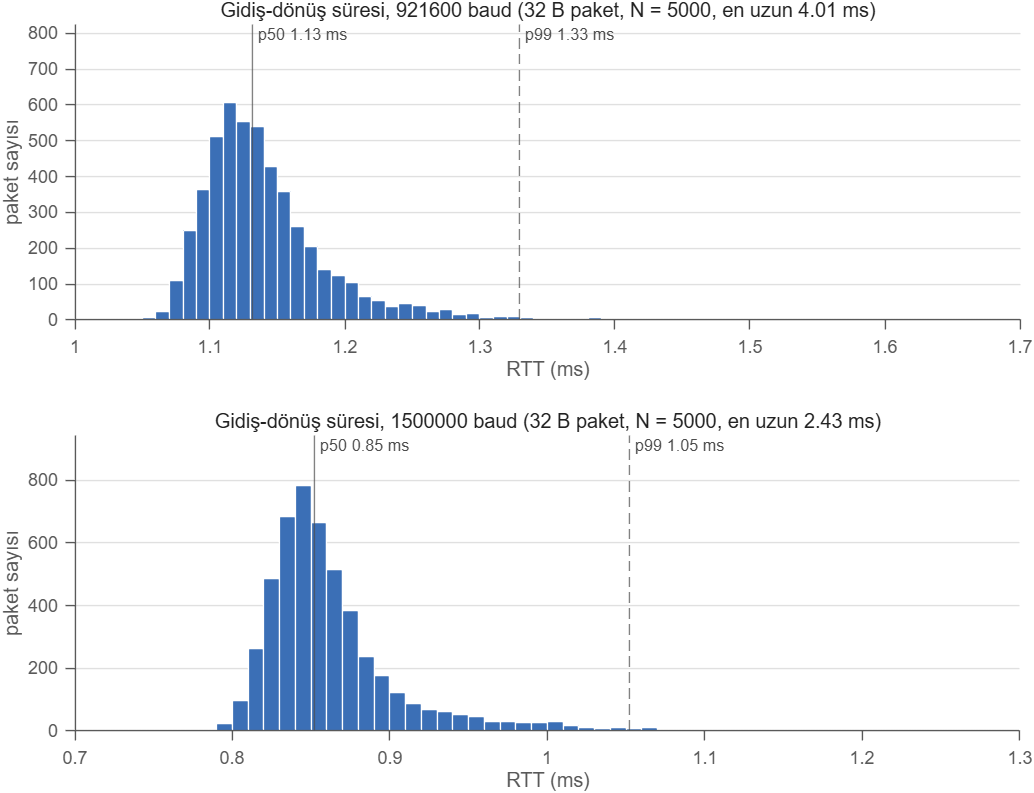
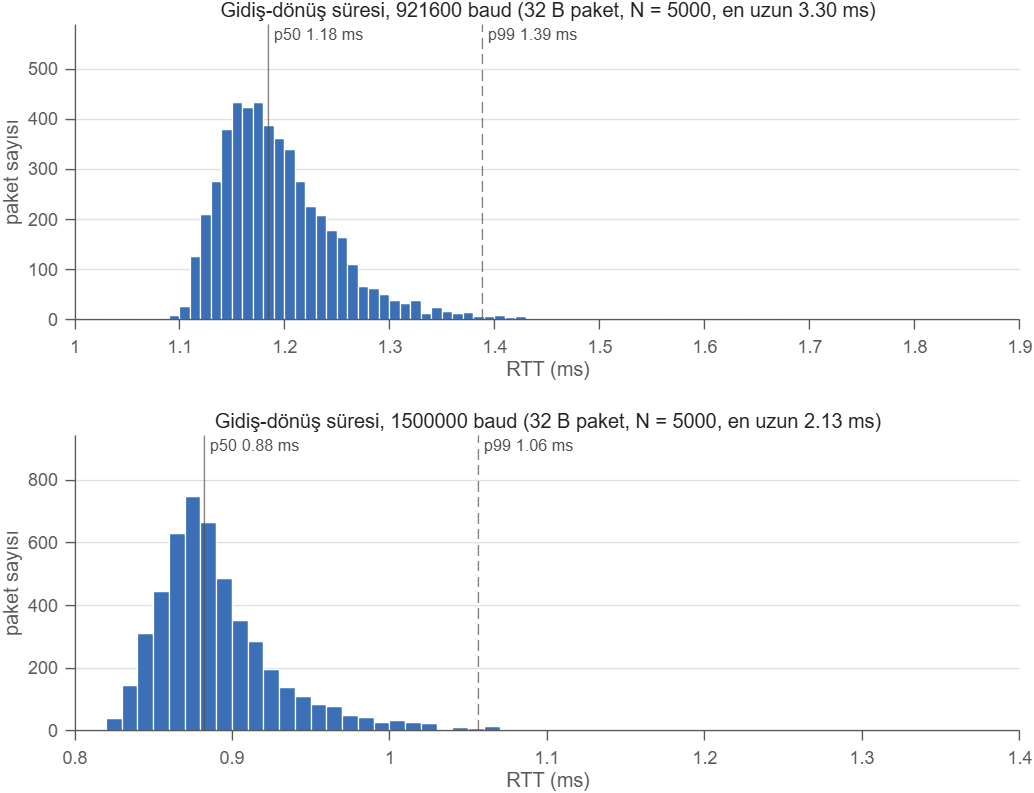
MATLAB step 3: loop timing measurement (period jitter <=10 us, wake latency 8.5-17 us, 0 missed ticks under serial load); log readout 143 kB/s; step-2 table refreshed on new firmware

diff --git a/simulasyon/6_esp32/dongu_olcum.m b/simulasyon/6_esp32/dongu_olcum.m
@@ -1,0 +1,89 @@
+% DONGU_OLCUM  Adım 3: kartın 1 kHz kontrol görevi, döngü süresi ve jitter.
+%   Firmware: kontrol görevi çekirdek 1'de (donanım zamanlayıcısı kesmesiyle
+%   uyanır), haberleşme çekirdek 0'da. Her tur için periyot, kesme → görev
+%   uyanma gecikmesi ve kontrol adımının süresi CPU çevrimiyle (240 MHz)
+%   kaydedilir; kayıt tamponu MATLAB'a toplu çekilir (esp32_kayit_oku).
+%   Çalıştırma (bu klasörden):  matlab -batch "dongu_olcum"
+%   Çıktı: dongu_olcum_log.txt, dongu_olcum.mat, dongu_olcum.png
+%
+%   Koşullar (her biri 10 000 tur = 10 s):
+%     A) hafif yük (sahte adım ~20 µs), seri hat sessiz
+%     B) hafif yük, kayıt boyunca kesintisiz yankı trafiği (PIL benzeri)
+%     C) ağır yük (sahte adım ~300 µs), kesintisiz yankı trafiği
+clear; clc;
+diary off; if isfile("dongu_olcum_log.txt"), delete("dongu_olcum_log.txt"); end
+diary("dongu_olcum_log.txt");
+fprintf("=== dongu_olcum %s ===\n", string(datetime("now")));
+
+PORT = "COM4"; BAUD = 1500000; F = 240e6;   % CPU çevrim frekansı
+N = 10000;
+kos = struct("ad", {"A sessiz, hafif", "B trafik, hafif", "C trafik, agir"}, ...
+             "iter", {300, 300, 4800}, "trafik", {false, true, true});
+
+sp = esp32_ac(PORT, 921600);
+temizle = onCleanup(@() esp32_kapat(sp));
+sira = 1; esp32_istek(sp, 4, sira, typecast(uint32(BAUD), 'uint8'), 4);
+sp.BaudRate = BAUD; pause(0.1); sp.DiscardInBuffer();
+yuk = typecast(single(randn(1, 6)), 'uint8');
+sonuc = struct([]);
+
+for c = kos
+    fprintf("\n--- %s (iter %d) ---\n", c.ad, c.iter);
+    sira = sira + 1;
+    d = esp32_durum(sp, sira, 16, [typecast(uint32(N), 'uint8') typecast(uint32(c.iter), 'uint8')]);
+    nYanki = 0; rtt = zeros(0, 1); t0 = tic;
+    while d.durum ~= 2
+        if c.trafik
+            for k = 1:200     % adım kilitli yankı, PIL'deki gibi
+                sira = sira + 1; t1 = tic;
+                esp32_istek(sp, 1, sira, yuk, numel(yuk));
+                rtt(end + 1, 1) = toc(t1); %#ok<SAGROW>
+            end
+            nYanki = nYanki + 200;
+        else
+            pause(0.5);
+        end
+        sira = sira + 1; d = esp32_durum(sp, sira);
+        if toc(t0) > 30, error("kayit bitmedi"); end
+    end
+    sira = sira + 1;
+    [K, sure] = esp32_kayit_oku(sp, sira, 0, d.kayitN);
+    sira = sira + 1; ist = esp32_istat(sp, sira);
+    fprintf("kart sayaclari: paketOk %d, crcHata %d, siraAtlama %d, copBayt %d\n", ...
+            ist.paketOk, ist.crcHata, ist.siraAtlama, ist.copBayt);
+    sira = sira + 1; esp32_istek(sp, 3, sira, uint8([]), 0);  % sayaçları sıfırla
+    kB = d.kayitN * 8 / 1e3;
+    fprintf("kayit cekme: %d kayit (%.1f kB) %.3f s, %.1f kB/s\n", d.kayitN, kB, sure, kB / sure);
+
+    per = K.periyotCyc / F * 1e6; gec = K.gecikmeCyc / F * 1e6; is = K.isCyc / F * 1e6;
+    sap = per - 1000;
+    fprintf("periyot us: ort %.4f  min %.3f  max %.3f  | sapma p99 %.3f  max|.| %.3f\n", ...
+            mean(per), min(per), max(per), prctile(abs(sap), 99), max(abs(sap)));
+    fprintf("uyanma gecikmesi us: p50 %.2f  p99 %.2f  max %.2f\n", prctile(gec, [50 99 100]));
+    fprintf("kontrol adimi us: p50 %.2f  p99 %.2f  max %.2f\n", prctile(is, [50 99 100]));
+    fprintf("kacan kesme: %d,  karttaki maks: per %.3f us, gec %.2f us, is %.2f us\n", ...
+            d.kacan, d.perMaxCyc / F * 1e6, d.gecMaxCyc / F * 1e6, d.isMaxCyc / F * 1e6);
+    if c.trafik
+        fprintf("es zamanli yanki: %d paket, RTT p50 %.3f ms p99 %.3f ms\n", ...
+                nYanki, prctile(rtt * 1e3, [50 99]));
+    end
+    r = struct("ad", c.ad, "iter", c.iter, "trafik", c.trafik, "per", per, ...
+               "gec", gec, "is", is, "kacan", d.kacan, "nYanki", nYanki, ...
+               "rtt", rtt, "cekmeSure", sure);
+    sonuc = [sonuc r]; %#ok<AGROW>
+end
+clear temizle
+
+% --- Özet ---
+fprintf("\n=== ozet (1 kHz, N = %d tur/kosul) ===\n", N);
+fprintf("%-18s %10s %10s %10s %10s %10s %6s\n", "kosul", "|sap|p99", "|sap|max", ...
+        "gec p99", "gec max", "is max", "kacan");
+for r = sonuc
+    fprintf("%-18s %8.3fus %8.3fus %8.2fus %8.2fus %8.1fus %6d\n", r.ad, ...
+            prctile(abs(r.per - 1000), 99), max(abs(r.per - 1000)), ...
+            prctile(r.gec, 99), max(r.gec), max(r.is), r.kacan);
+end
+save("dongu_olcum.mat", "sonuc", "N", "F");
+dongu_olcum_ciz;
+fprintf("\nbitti.\n");
+diary off;

diff --git a/simulasyon/6_esp32/dongu_olcum_ciz.m b/simulasyon/6_esp32/dongu_olcum_ciz.m
@@ -1,0 +1,32 @@
+% DONGU_OLCUM_CIZ  dongu_olcum.mat'tan periyot sapması ve uyanma gecikmesi
+%   histogramları (koşul B: trafik altında hafif yük, PIL'e en yakın durum).
+S = load("dongu_olcum.mat");
+r = S.sonuc(2);
+mavi = [0.231 0.435 0.714]; gri = [0.3 0.3 0.3];
+f = figure("Visible", "off", "Color", "w", "Position", [100 100 900 640]);
+veri = {r.per - 1000, r.gec};
+baslik = {sprintf("Periyot sapması (1000 µs'den), N = %d, en büyük |sapma| %.3f µs", ...
+                  numel(r.per), max(abs(r.per - 1000))), ...
+          sprintf("Kesme → görev uyanma gecikmesi, en uzun %.2f µs", max(r.gec))};
+xet = {"sapma (µs)", "gecikme (µs)"};
+for i = 1:2
+    ax = subplot(2, 1, i);
+    x = veri{i};
+    histogram(ax, x, 80, "FaceColor", mavi, "EdgeColor", "w", "LineWidth", 0.5, "FaceAlpha", 1);
+    ax.YScale = "log";
+    yl = ylim(ax); ylim(ax, [0.8 yl(2) * 3]);
+    q = prctile(x, 99);
+    if i == 1, q = prctile(abs(x), 99); end
+    xline(ax, q, "--", "Color", gri);
+    yl = ylim(ax);
+    text(ax, q, yl(2) / 4, sprintf("  p99 %.2f µs", q), "Color", gri, "FontSize", 9);
+    ax.Box = "off"; ax.TickDir = "out"; ax.YGrid = "on"; ax.YMinorGrid = "off";
+    ax.GridColor = [0.88 0.88 0.88]; ax.GridAlpha = 1;
+    ax.XColor = [0.35 0.35 0.35]; ax.YColor = [0.35 0.35 0.35];
+    title(ax, baslik{i}, "FontWeight", "normal");
+    xlabel(ax, xet{i}); ylabel(ax, "tur sayısı (log)");
+end
+sgtitle(f, "ESP32 1 kHz kontrol görevi, koşul B (seri trafik altında, sahte adım ~20 µs)", ...
+        "FontSize", 11);
+exportgraphics(f, "dongu_olcum.png", "Resolution", 130);
+close(f);

diff --git a/simulasyon/6_esp32/esp32_kayit_oku.m b/simulasyon/6_esp32/esp32_kayit_oku.m
@@ -1,0 +1,26 @@
+function [K, sure] = esp32_kayit_oku(sp, sira, bas, adet)
+% ESP32_KAYIT_OKU  Kayıt tamponunu toplu çeker (T_KAYIT_OKU, 0x12).
+%   Kart istenen aralığı art arda paketlerle gönderir (paket başına 30 kayıt,
+%   sıra no = parça indisi). K: alanları sütun olan yapı (çevrim cinsinden):
+%     K.periyotCyc, K.gecikmeCyc, K.isCyc (= isCyc4*4). sure: s.
+KP = 30;  % protokol.h: KAYIT_PAKET
+np = ceil(adet / KP);
+son = mod(adet, KP); if son == 0, son = KP; end
+topBayt = (np - 1) * (8 + KP * 8) + (8 + son * 8);
+t0 = tic;
+esp32_yaz(sp, prot_paketle(18, sira, [typecast(uint32(bas), 'uint8') typecast(uint32(adet), 'uint8')]));
+c = esp32_oku(sp, topBayt);
+sure = toc(t0);
+ham = zeros(8, adet, 'uint8');
+i = 1; k = 0;
+for j = 0:np-1
+    m = KP; if j == np - 1, m = son; end
+    [tip, sq, y, ok] = prot_coz(c(i:i + 7 + m * 8));
+    if ~ok || tip ~= 146 || sq ~= j, error("esp32:bozuk", "kayit paketi %d bozuk", j); end
+    ham(:, k + 1:k + m) = reshape(y, 8, m);
+    i = i + 8 + m * 8; k = k + m;
+end
+K.periyotCyc = double(typecast(reshape(ham(1:4, :), 1, []), 'uint32')).';
+K.gecikmeCyc = double(typecast(reshape(ham(5:6, :), 1, []), 'uint16')).';
+K.isCyc = 4 * double(typecast(reshape(ham(7:8, :), 1, []), 'uint16')).';
+end

diff --git a/simulasyon/6_esp32/seri_olcum.m b/simulasyon/6_esp32/seri_olcum.m
@@ -126,6 +126,15 @@ for b = BAUDLAR
     catch e
         r.not = string(e.message);
         fprintf("BASARISIZ: %s\n", e.message);
+        % Teşhis: kart hâlâ cevap veriyor mu, sayaçları ne diyor?
+        try
+            pause(0.2); sp.DiscardInBuffer(); sira = sira + 1;
+            ist = esp32_istat(sp, sira);
+            fprintf("  teshis kart: paketOk %d, crcHata %d, siraAtlama %d, copBayt %d, uzunHata %d\n", ...
+                    ist.paketOk, ist.crcHata, ist.siraAtlama, ist.copBayt, ist.uzunHata);
+        catch
+            fprintf("  teshis: kart bu hizda cevap vermiyor\n");
+        end
         % Kartı sıfırla, açılış hızına dön
         esp32_kapat(sp); pause(0.3);
         sp = esp32_ac(PORT, 921600);

diff --git a/simulasyon/6_esp32/esp32_durum.m b/simulasyon/6_esp32/esp32_durum.m
@@ -1,0 +1,11 @@
+function d = esp32_durum(sp, sira, tip, yuk)
+% ESP32_DURUM  1 kHz döngünün durumunu okur (protokol.h: struct Durum).
+%   tip = 17 (0x11, yalnız oku) ya da 16 (0x10, kaydı başlat; yuk gerekli).
+if nargin < 3, tip = 17; yuk = uint8([]); end
+[y, t] = esp32_istek(sp, tip, sira, yuk, 40);
+if t ~= bitor(tip, 128), error("esp32:hata", "kart istegi reddetti (tip %d)", t); end
+v = double(typecast(uint8(y), 'uint32'));
+ad = ["durum" "kayitN" "hedefN" "tick" "kacan" "yukIter" "perMinCyc" ...
+      "perMaxCyc" "gecMaxCyc" "isMaxCyc"];
+d = cell2struct(num2cell(v(:)), cellstr(ad), 1);
+end

diff --git a/calisma_notu/esp32.md b/calisma_notu/esp32.md
@@ -30,15 +30,24 @@ sıra numarasını bir öncekinin +1'i olarak bekler ve CRC hatası, sıra atlam
 PIL büyüklüğünde yük: 6 float = 24 B, paket 32 B. RTT = MATLAB'ın `write` çağrısından cevabın
 son baytı okunana dek, N = 5000. Akış: 64 paket tek yazımda, 64 cevap okunur, 40 tekrar.
 
+Son firmware ile (adım 3 sürümü: haberleşme çekirdek 0'da, engelleyici okuma):
+
 | baud | RTT p50 | p99 | en uzun | paket/s (akış) | kB/s her yön | kayıp / hata |
 |---:|---:|---:|---:|---:|---:|---:|
-| 921 600 | 1,13 ms | 1,33 ms | 4,01 ms | 2385 | 76,3 | 0 / 0 |
-| 1 000 000 | 1,08 ms | 1,30 ms | 6,80 ms | 2647 | 84,7 | 0 / 0 |
-| **1 500 000** | **0,85 ms** | **1,05 ms** | 2,43 ms | 3332 | 106,6 | 0 / 0 |
+| 921 600 | 1,19 ms | 1,39 ms | 3,30 ms | 2374 | 76,0 | 0 / 0 |
+| 1 000 000 | 1,12 ms | 1,33 ms | 3,36 ms | 2620 | 83,8 | 0 / 0 |
+| **1 500 000** | **0,88 ms** | **1,06 ms** | 2,13 ms | 3274 | 104,8 | 0 / 0 |
 | 2 000 000 | çalışmıyor (kart geçiyor, CP2102 cevabı iletmiyor) | | | | | |
 | 3 000 000 | .NET/CP210x sürücüsü kabul etmiyor (üst sınır 2 187 500) | | | | | |
 
-Toplam 22 683 pakette (her baud için 7561) CRC hatası, sıra atlaması ve çöp bayt sıfır.
+Her baud için 7561 paket; CRC hatası, sıra atlaması ve çöp bayt sıfır. Adım 2 sürümünde
+(haberleşme `loop()` içinde, yoklamalı) sayılar aynı düzeydeydi: 1,5 M'de p50 0,85 ms.
+
+**Bir kez görülen kayıp:** adım 3 firmware'inin ilk `seri_olcum` koşusunda 1,5 M'deki 64
+paketlik toplu yazımda 448 bayt (14 paket) gelmedi. Sonraki MATLAB koşusunda ve Python ile
+6 × 2561 pakette yeniden üretilemedi, sebebi bilinmiyor. PIL adım kilitli olduğundan toplu
+yazım yapmaz; kayıt çekmede de her parça CRC + sıra no ile doğrulanır, kayıp sessiz geçmez.
+Uzun PIL koşularında kayıp/zaman aşımı sayacı tutulmalı, gerekirse tekrar istenmeli.
 
 ### Üç bulgu
 
@@ -62,7 +71,7 @@ Toplam 22 683 pakette (her baud için 7561) CRC hatası, sıra atlaması ve çö
 
 Bir PIL turu ≈ RTT + MATLAB'da paketle/çöz + ikizin bir adımı + kartta algoritmanın hesabı.
 
-- RTT (1,5 M, p50/p99): 0,85 / 1,05 ms.
+- RTT (1,5 M, p50/p99): 0,88 / 1,06 ms.
 - MATLAB paketle + çöz: **~130 µs** (CRC'nin bayt döngüsü yorumlanıyor). Gerekirse CRC
   vektörleştirilebilir ya da PIL sırasında tek yönde basit toplama düşülebilir; şimdilik yeterli.
 - İkiz adımı ve kart hesabı: adım 4–5'te ölçülecek (kart tarafı tahmini onlarca µs).
@@ -75,4 +84,54 @@ Windows zamanlaması) yalnız duvar saatini uzatır, sonucu değiştirmez.
 
 **Karar:** PIL 1,5 Mbaud'da koşar. Kart 921 600'de açılır, MATLAB `T_BAUD` ile 1,5 M'ye geçirir.
 Gerçek zamanlı çalışmada (adım 6–7) MATLAB döngüde olmadığından bu gecikme önemsizdir;
-seri hat yalnız komut ve kayıt tamponu taşır (akış 1,5 M'de ~107 kB/s).
+seri hat yalnız komut ve kayıt tamponu taşır.
+
+## Adım 3: 1 kHz kontrol görevi iskeleti (2026-11-06)
+
+### Yapı (`firmware/src/main.cpp`)
+
+- **Çekirdek 1, kontrol görevi**, en yüksek öncelik. Donanım zamanlayıcısı (1 MHz sayaç,
+  1000 µs'de alarm) kesme üretir; kesme çevrim sayacını not edip görevi bildirimle uyandırır.
+  Zamanlayıcı görevin içinde kurulur, böylece kesme de çekirdek 1'e bağlanır. Görev şimdilik
+  sahte bir float yükü koşar (`sahteAdim`); adım 4'te gerçek algoritma buraya girer.
+- **Çekirdek 0, haberleşme görevi.** `Serial.begin` burada çağrılır, UART kesmesi de çekirdek
+  0'a kurulur. İlk bayt engelleyerek beklenir (`readBytes`, görev uyur), kalanı toplu okunur.
+  Arduino `loop()` görevi silinir.
+- **Kayıt tamponu**: 10 000 tur × 8 B (periyot, kesme→uyanma gecikmesi, adım süresi; CPU
+  çevrimi, 240 MHz → 4,2 ns). Yeni paketler: `10` kaydı başlat (N, yük), `11` durum, `12` kaydı
+  oku. `12` istenen aralığı **art arda paketlerle** (paket başına 30 kayıt, sıra no = parça
+  indisi) bekleme olmadan gönderir. Ayrıca kaçırılan kesme sayılır.
+
+### Ölçüm (`dongu_olcum.m`, log `dongu_olcum_log.txt`, grafik `dongu_olcum.png`)
+
+Her koşul 10 000 tur (10 s). B ve C'de kayıt boyunca MATLAB kesintisiz adım kilitli yankı
+gönderir (~9400 paket, PIL benzeri yük).
+
+| koşul | \|periyot sapması\| p99 | en büyük | uyanma gecikmesi p50 / p99 / en uzun | adım süresi en uzun | kaçan |
+|---|---:|---:|---:|---:|---:|
+| A: sessiz hat, adım ~19 µs | 0,012 µs | 6,7 µs | 8,5 / 8,5 / 15,2 µs | 27 µs (ilk tur, önbellek) | 0 |
+| B: yankı trafiği, adım ~19 µs | 6,7 µs | 9,6 µs | 8,5 / 13,9 / 17,4 µs | 19,4 µs | 0 |
+| C: yankı trafiği, adım ~300 µs | 6,4 µs | 9,2 µs | 8,5 / 14,0 / 17,2 µs | 302 µs | 0 |
+
+Kayıt çekme: 10 000 kayıt (80 kB) 0,56 s'de, 143 kB/s (1,5 M'nin %95'i). Tüm koşullarda kart
+tarafında CRC hatası, sıra atlaması ve çöp bayt sıfır.
+
+### Yorum
+
+- **Periyot sapması en çok ~10 µs, yani periyodun %1'i.** Ortalama periyot tam 1000,0000 µs
+  (donanım zamanlayıcısı kayma yapmaz); sapma yalnız uyanma gecikmesindeki oynamadan gelir.
+  1 kHz kontrol için önemsiz: iş sırası 5a'da ikiz 2 ms'ye kadar ölçüm gecikmesine
+  dayanıklı çıkmıştı, bu 200 kat büyük.
+- **Uyanma gecikmesi sabit ~8,5 µs** (Arduino zamanlayıcı sarmalayıcısı + FreeRTOS bağlam
+  değişimi). Seri trafik altında kuyruk 17 µs'ye uzar. Haberleşme ayrı çekirdekte olsa da iki
+  çekirdek FreeRTOS çekirdek kilidini paylaşır: çekirdek 0 UART kuyruğunda kilidi tutarken
+  çekirdek 1'in bildirimi kısa süre bekler. Yazılım benzetmesi: iki iş parçacığı ayrı CPU'da
+  ama aynı mutex'e dokunuyor. Gerekirse kesme içinde doğrudan iş yapmak (görev yerine) ya da
+  ESP-IDF'nin `gptimer`'ını sarmalayıcısız kullanmak bunu düşürür; şimdilik gerek yok.
+- **Ağır yük (300 µs) zamanlamayı bozmuyor**: periyot ve gecikme dağılımı B ile aynı, kaçan
+  kesme yok. Gerçek algoritmanın (adım 4) bütçesi rahat: 1000 µs − ~20 µs gecikme.
+- **Adım süresinin kendisi çok kararlı**: 19 µs'lik adım p50 18,98, p99 19,30 µs. Adım 4'te
+  algoritmanın süresi bu altyapıyla doğrudan ölçülecek.
+
+Sıradaki: adım 4, algoritmanın C'ye çevrilmesi (P-PI, ofset tablosu, tork gözlemcisi, yüz
+kestirici), `kol_benzetim.m`'deki sırayla, float ve int32 motor turu sayacıyla.
